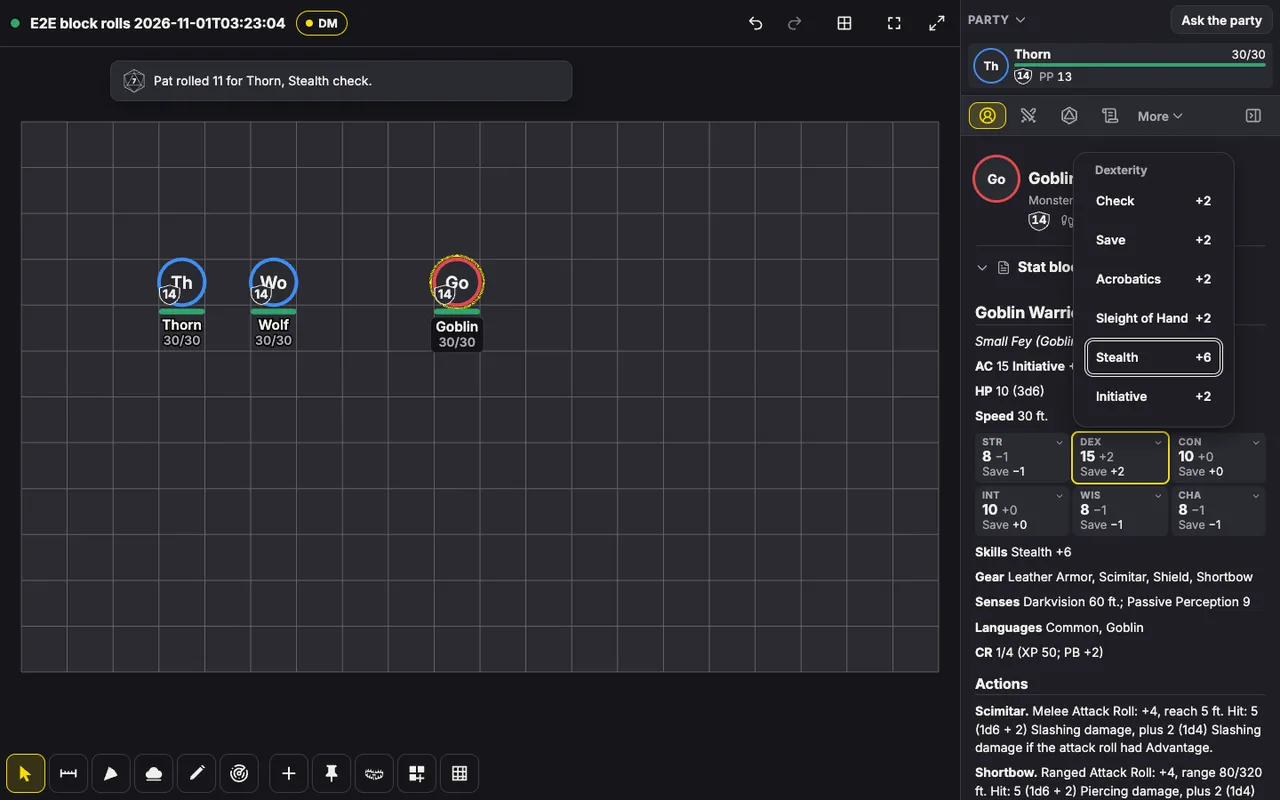
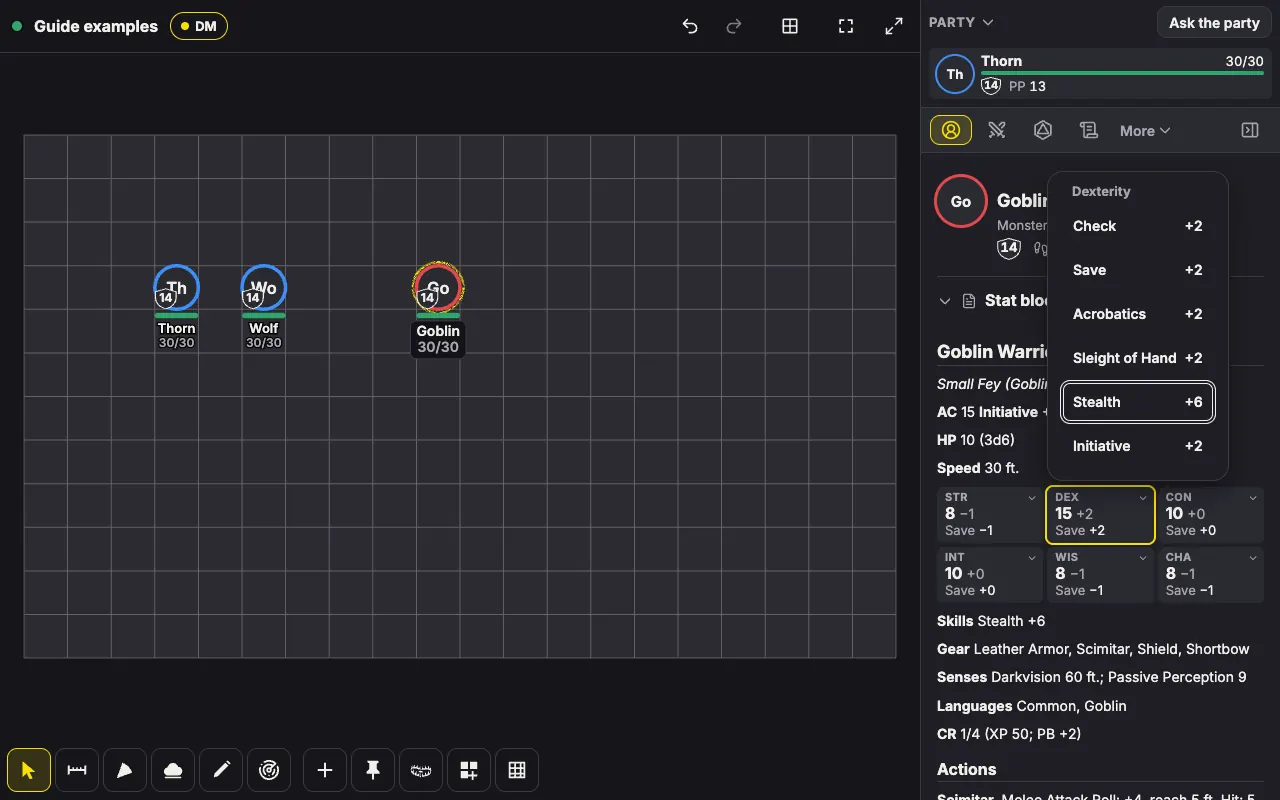
docs: stat block result line fixes, request and damage roll options, sharing an export, and a retaken stat block rolls picture

diff --git a/FEATURES.md b/FEATURES.md
@@ -100,7 +100,7 @@ All of this is the DM's.
 - Duplicate a scene from its menu, choosing what comes along: monsters, NPCs and objects, player characters, fog, and drawings and placed areas.
 - Folders: "Move to folder…" files a scene under a header that folds with a tap. Each scene shows a thumbnail of its map, redrawn when the DM leaves a scene they changed, or with "Update thumbnail". The menu's last row, "Delete", removes the scene with its tokens, drawings, build and fog. It asks for a second tap on the same row first, and a tap anywhere else cancels it. The last scene in a room cannot be deleted, and neither can the scene the players are on until they are moved to another: its Delete, in the menu and at the end of the scene's settings, says "Move the players to another scene first." An Undo setup or Redo setup that would take it away says the same. Players never see folders or thumbnails.
 - Map phases: up to 7 other images of the same map (8 in all), such as day and night or on fire, that keep tokens and fog in place. A chip, or the Phase menu on a wide screen, switches with one tap. A phase can bring its own light level, so Night can make the scene dark. Players get only the phase showing, never the others or their names.
-- "Export as image" saves a scene's map as a PNG: the map image and the build, without tokens, drawings or fog. Pick 50, 70 or 100 pixels per square, the grid on or off, and the player view or the DM view. The file name carries the grid size, such as `crypt-30x20-70px.png` (with `-dm` added for the DM view), so other VTTs set the scale on import. A hex scene exports pixels per hex with its hex lines ("Hex lines") and is named like `crypt-hex-70px.png`, since a WxH name would read as squares. A very large scene exports at fewer pixels per square, to stay within what an iPhone can draw, and says so. On an iPhone it saves through the share sheet.
+- "Export as image" saves a scene's map as a PNG: the map image and the build, without tokens, drawings or fog. Pick 50, 70 or 100 pixels per square, the grid on or off, and the player view or the DM view. The file name carries the grid size, such as `crypt-30x20-70px.png` (with `-dm` added for the DM view), so other VTTs set the scale on import. A hex scene exports pixels per hex with its hex lines ("Hex lines") and is named like `crypt-hex-70px.png`, since a WxH name would read as squares. A very large scene exports at fewer pixels per square, to stay within what an iPhone can draw, and says so. On a phone or tablet that can share files, the made image offers **Save or share**, which opens the share sheet, beside **Download**.
 - Universal VTT import (always squares, and a room whose default is hexes says so in the summary): a `.dd2vtt`, `.uvtt` or `.df2vtt` file from Dungeondraft, Dungeon Alchemist, Arkenforge or DungeonFog brings the map image, grid, walls, doors, windows and lights at once, and a door Arkenforge draws as an outline comes in as one door. It shows what it found before it makes the scene, asks what players see there, and suggests the scene's light level. A map that brings lights of its own starts dark with party vision on (Explore), so its lights light it for the party, and the summary opens by saying so with the count and Keep it lit beside it (Bright, and what players see goes back to the room's choice). A conversion retried with different options updates that line and its proposed light, keeping any light or Players see choice the DM already made. A map whose ambient light is 70% or brighter keeps its daylight, and one whose image is already lit with no lights stays Bright. One Undo setup in Setup history takes it all back. A phone takes files up to 40 MB, so large maps import on a computer.
 
 ### Isometric view
@@ -412,7 +412,7 @@ Every roll happens on the server, with a secure random source, so everyone sees 
 - Skill check buttons keep each name and bonus on one line, including Animal Handling. Their equal columns widen or fall to one column as the panel narrows or the interface size grows.
 - **Recharge and X/Day in the Dice panel**: a recharge action's row has **Used**, the same mark as the creature's Uses, and **Recharge**, which rolls 1d6 on the server and settles the turn's recharge card. Its Damage, Group save, a group save's Apply and a player's Ask for saves mark it used, and only while it shows ready, so they never draw a refusal. An X/Day action's row reads "2/Day, 1 left" with **Use**, the only thing that spends a use, so a reroll never does. A Legendary Action rolled there spends none. A Use that fails says why on its row, and a tap on Use with none left says "No uses left" there and spends nothing. Damage rolls keep each amount with its type through the HP entry's Use chip and the group save. Only types that deal damage after defenses count for Regeneration. Editing a chip's total clears its typed breakdown. Recharge has no one-roll options, since its one roll has nothing to choose.
 - **Critical Hits**: an attack's Critical, which a natural 20 (or a wider critical range) presses on its own, rolls every damage die of the hit, riders such as Sneak Attack included, by the room setting "Critical Hit damage" (Room settings, Combat): Roll the dice twice (2d6+3 crits as 4d6+3, the 2024 rule and the default), Max plus a roll (12 + 2d6 + 3), Double the dice rolled ((2d6 × 2) + 3) or Double the total ((2d6 + 3) × 2). One rule for monsters and characters alike, applied by the server. The roll shows how it was reached: in the log and Recent rolls ("12 max + 2d6+3 (4, 6) = 25"), and at the top of the Dice panel and in its toast ("25 (12 max + 13)"). Saves never crit.
-- **Several creatures** (DM): a card with up to three of their pictures, "3 selected" and their names, holding a DC, Initiative for the ones in the fight and Set up a group save. Under it, Saves and checks, Skills and Shared attacks fold as a creature's groups do, each kept on this device. A save's button reads "DEX" under the label "Saves for 3", one line at every size, and is still named "DEX save for 3". One tap rolls a save or check for all. A shared attack rolls with each creature's own bonus against an AC, then "Roll damage for 2 hits" rolls the hits' damage. Folding Shared attacks, or selecting other creatures while two or more stay selected and still share the attack, keeps the hits and the damage button, and a folded group names the hits that wait ("Scimitar: 2 hits"). Fewer than two selected clears them, and so does a selection that no longer shares the attack, even one made with the Dice sheet closed. A group save left open shows as a notice above the card, "Fire Breath's save: set up.", with Open. A save, a check or a shared attack's one-roll options apply to the dice the server rolls in that tap, never to an asked player's later answer, and say so. Roll damage offers Secret and Normal. Initiative for the ones in the fight keeps its dice secret.
+- **Several creatures** (DM): a card with up to three of their pictures, "3 selected" and their names, holding a DC, Initiative for the ones in the fight and Set up a group save. Under it, Saves and checks, Skills and Shared attacks fold as a creature's groups do, each kept on this device. A save's button reads "DEX" under the label "Saves for 3", one line at every size, and is still named "DEX save for 3". One tap rolls a save or check for all. A shared attack rolls with each creature's own bonus against an AC, then "Roll damage for 2 hits" rolls the hits' damage. Folding Shared attacks, or selecting other creatures while two or more stay selected and still share the attack, keeps the hits and the damage button, and a folded group names the hits that wait ("Scimitar: 2 hits"). Fewer than two selected clears them, and so does a selection that no longer shares the attack, even one made with the Dice sheet closed. A group save left open shows as a notice above the card, "Fire Breath's save: set up.", with Open. A save, a check or a shared attack's one-roll options apply to the dice the server rolls in that tap, never to an asked player's later answer, and say so. Roll damage's one-roll options offer Roll secretly, as any roll with no d20 does. Initiative for the ones in the fight keeps its dice secret.
 - **The group save** (DM): monsters rolled at once, players' creatures asked with the DM's roll one tap away (with a bonus the DM types for one with no stat block), a creature with no stat block rolled on the server with a bonus the DM types ("Server d20+3") or typed, pass or fail against a DC, damage rolled once and kept by type, full or half, conditions on a fail with their end, resistances, immunities, Evasion, Magic and Legendary Resistance on each row, every row changeable, with typed damage or a final plain number as its damage override, one Apply and one undo, which opens the page again for a new DC or fresh rolls (see Undo and Redo under DM tools). A typed row override applies defenses without applying the save or Evasion again. Back to the worked-out amount restores the shared damage and save choices. Until the roll its creatures follow the selection, so a save action's Group save fills with the creatures selected after it. Monsters' rolls the DM shows to players carry the DC only with "Players see the DC" on, and a save-ends or Concentration roll in the open never shows its DC. Those switches fold into one "What players see" line that says what they are, as on the request sheet, and the damage field is labelled Damage. It stays on the DM's device through a reload, and an Apply whose answer was lost is never sent again unless the DM says so. While the room is offline or the DM is on another scene, its rows stay as they are, with their rolls and Ask again waiting and saying why, and a total being typed as it drops is kept for Apply. A player's ask for saves comes as a card above the live cards, "Thorn asks for saves: Fireball, level 4", with the player's roll ("Thorn rolled 31 Fire") and the area's count, hidden creatures included, or the targets, with Open and Dismiss. It counts among the newest two on a phone and leads the alerts summary over a sheet. Open fills the group save from the caster's stat block as the DM sees it, at the asked level, whose Slot level stepper changes it, with the player's roll as the page's damage, and an ask on another scene reads "Go to Crypt and open". Apply resolves the ask in the same step, and where nothing would change it reads Close the ask. Discard leaves the ask waiting, and Dismiss sets it aside for good. An ask withdrawn or set aside while the page is open leaves a plain group save, and one resolved on another device stops Apply, so a spell never lands twice. Its Roll and its damage's Roll have the one-roll options. A pick never moves the page's Secret switch, except on a page the pick opened from Several creatures, whose switch starts as the dice it sent. A player's spell's damage stays public, with no options.
 
 ## Rolls
@@ -426,7 +426,7 @@ The DM asks players for a saving throw or an ability check, and each player roll
 - What players see (the DC, and pass or fail), "Against a spell" for a save, and a note such as "against the poison" fold into one line that says what they are. Both switches start as the DM's last request from that device had them, else on. With the DC hidden and pass or fail shown, a typed answer is final once it passes or fails, so changing the total cannot find the DC. The DM can reopen it.
 - The last three requests from that device are one tap each, with their DC, switches and note. Enter in the DC field or the note sends. If the server refuses the request, the sheet stays open with everything set and the reason. Closing the sheet while the request is sending does not stop it, and a refusal that comes after shows as a message.
 - The player's device shows a card, with a vibration on Android or the turn chime. It asks the question with its DC or "DC hidden", and shows reminders from the creature's conditions and statuses, such as Restrained's Disadvantage on Dexterity saves or an Exhaustion penalty. With two choices each names its bonus where the app knows it, and the higher one starts picked.
-- While the creature waits, Roll rolls on the server with its bonus ("Roll +3"), or with a bonus the player types when the app knows none ("Roll d20", then "Roll d20+5"), with "Add a stat block" for a character that has none, shown only to the DM and the character's own players. Conditions such as Restrained, Bless or Magic Resistance against a spell apply as in the Dice panel, the player can add Advantage, Disadvantage or extra dice such as +1d4, and a line under Roll says how it will roll, or that they cancel. A condition that fails the save, such as Stunned on a Dexterity save, offers "Fail (Stunned)" first, and a roll made anyway records Fail with its total. Rolling needs a connection. Its one-roll options roll with Advantage, Disadvantage or normally, with the choice, the bonus typed and the extra dice, and keep the request's visibility.
+- While the creature waits, Roll rolls on the server with its bonus ("Roll +3"), or with a bonus the player types when the app knows none ("Roll d20", then "Roll d20+5"), with "Add a stat block" for a character that has none, shown only to the DM and the character's own players. Conditions such as Restrained, Bless or Magic Resistance against a spell apply as in the Dice panel, the player can add Advantage, Disadvantage or extra dice such as +1d4, and a line under Roll says how it will roll, or that they cancel. A condition that fails the save, such as Stunned on a Dexterity save, offers "Fail (Stunned)" first, and a roll made anyway records Fail with its total. Rolling needs a connection. Its one-roll options roll with Advantage or Disadvantage, with the choice, the bonus typed and the extra dice, and keep the request's visibility. They never offer Roll normally, even with the card's own Advantage or Disadvantage pressed, since that chip is the way back.
 - A rolled result shows in the card, with its dice, a dropped die struck through, and a natural 20 or 1, until Done, then in the chip: "DEX save: rolled 17 (1d20+5: 12). Pass. Final." A rolled answer is final. The player can ask the DM, from the card or its chip, to reroll one die (Heroic Inspiration, the d20 or any other die such as Bless's d4, or Halfling Luck on a 1), to add Advantage (Lucky) or to add a Bardic Inspiration die, and can withdraw the ask. A typed total that is final, with the DC hidden, can be fixed the same way with "Fix my total", whose Allow lets the player type it again but not roll.
 - Or the player types the total and taps Send, and once a total is sent, Roll is gone. A save also offers "Fail without rolling". With "Players may type their roll totals" off in Room settings, under Players (on by default, rooms from before it included), every card a player answers offers Roll alone, with "Fail without rolling" on a save, no Total and no "Fix my total", and the server refuses a typed answer. Their Initiative is rolled too, never typed. A typed answer already in stands, and the DM's own rolls and totals are unaffected. A refusal, such as rolling too fast, shows under the card's rows in the server's words. A typed total folds the card into a chip, such as "DEX save: sent 17. Pass." (with two choices it names the one rolled: "STR or DEX save: sent DEX 15. Pass."), which opens again to change the answer while the request is open. A card can also fold away to answer later. On a phone the chips fold into one button while a sheet covers the map, and otherwise only the newest two show, with a "Rolls" button that counts the answers (such as "Rolls 1/3"), shows the rest and folds them again. A card that would cover an open sheet on a phone folds too, into a "Roll asked" button that closes the sheet and opens the card again, with any total typed into it kept. A card at a phone's foot folds the same way while a popover of the tool's options is open, such as Shape or the spell results, and comes back when the popover closes. On a phone a card at the screen's foot stands on the tool's options, such as the Multi-select bar, and the token's action bar keeps above it. Where the screen is too short for the card's question, Later and total, or for both it and the bar, the card folds, and a "Roll asked" row at the top of the map stands for it. Its tap, like a chip's, hides the bar, keeping the token or group selected, and opens the card over the tool's options, rising to the screen's top where it needs the room, with its question, Later, total and Send in reach at once, until it is answered or put off with Later.
 - The DM's live card counts passes and fails ("2 of 3 answered: 1 pass, 1 fail") and shows each creature waiting, or how it answered: "rolled 17 (1d20+5: 12)" with its dice, a natural 20 or 1 and a condition that failed it, or "typed 17", with the choice first when there were two, and an answer it replaced. A waiting creature whose bonus the DM's view knows has a Roll, such as "Roll +5, Disadvantage (Restrained)", and one with no stat block a Roll with a bonus the DM types beside it ("Roll d20+3"), which never replaces an answer that came first: "Thorn answered before your roll." Pass and Fail mark a roll with no DC, or overrule one, and the mark is kept apart from what the DC says. A player's ask shows on its row, "Asks to reroll (Heroic Inspiration)", with Allow, which rolls the change on the server, and Keep, one tap each. A card with an ask opens on a computer, names the ask on its folded line on a phone, and leads the alerts summary over a sheet. A request a save-ends card sent stays folded to its one line while that card is up, so its Allow and Keep show once, on the save-ends card. Closing a request keeps any ask, and "Close all answered" leaves a request with an ask open. "Reopen for one more answer", Close, and "Close all answered", which shows while two or more cards are up, finish it. On a phone the DM's cards start folded to one line, only the newest two show, with a "Rolls" button (such as "Rolls 1/3") for the rest, and all of them fold into one button while a sheet covers the map. A waiting creature's Roll has the same one-roll options, and still never replaces an answer that came first.
@@ -441,7 +441,7 @@ The DM asks players for a saving throw or an ability check, and each player roll
 - The DM and the character's players read and edit it. Only they get Add a stat block, Edit, Take a shape and End the shape, so a player lent a token of another character rolls for it but never changes its block. Its numbers stay theirs too: the lent token's player rolls its saves, checks, skills and Initiative as a d20 with a bonus they type, and its row's Roll in the tracker opens the Dice panel for that. Other players and the table display never see it.
 - Fill it from pasted text, read as a stat block, or from D&D Beyond with a public character's share link or its JSON. It reads numbers, proficiencies, weapons, spells and class resources, never their text, and lists what to check before anything is saved. Jack of All Trades comes in as its flag when the bard has reached the feature, whatever condition text D&D Beyond gives it, or when any other source gives it with no condition. Class modifiers of features not yet reached are ignored. When the classes are not read whole the flag stays as synced, and a re-sync that turns it on or off says so. Other half proficiencies, such as the Champion's Remarkable Athlete, are not read. Re-sync from D&D Beyond, beside Edit, brings in what changed there since the last sync and keeps what you changed here, such as a Spellcasting ability or a renamed weapon. It lists each kept change with Overwrite, and Overwrite all, and Undo takes a re-sync back (for the DM it is also a step in Setup history). It changes the maximum HP but never brings a character back or puts one down, and never changes the size. It is best effort, since D&D Beyond can change its format.
 - A character with a stat block shows it in its token's panel and on its page, right under the name and quick numbers, its six abilities three across with their saves, each proficient save's ability box outlined, its saves in the action bar, and "Stat block" in its tracker row's options. Its Initiative and Passive Perception come from the stat block. Folded, its row says what it holds: "Level 5, PB +3" (or "Level not set"), or the shape it is in, such as "Wild Shape: Brown Bear", and never a count of known forms. A character with none has the same fold, reading "None yet", and, opened, offering "Add a stat block" and "Take a shape". Once the character has known forms, Take a shape reads "4 shapes" ("1 shape") on the fold's row and inside it, named "4 shapes, take a shape" to a screen reader.
-- **Roll from a stat block**: where you may roll for its creature, tap one of a stat block's six ability boxes for its rolls: the check, the save, each of its skills, and Initiative under Dexterity, each with the bonus it rolls, a proficient one bordered as in the Dice panel. Tap one to roll it. Hold one, right-click it, or press ContextMenu or Shift+F10 on it for Roll with Advantage, Roll with Disadvantage or Roll secretly, and Escape or Back goes back to the list. A DM's roll for a monster is secret already, so its choices are Advantage and Disadvantage only. A small mark in a box's corner shows it opens. The result shows under the boxes, with "with Advantage", "with Disadvantage" or "secret" where a choice added one and the line has room. A roll answers a request that asks for it, writes Initiative into the tracker, and for the DM asks a player's creature while its Ask switch is on. It uses none of the Dice panel's Next roll choices and throws no dice. In Wild Shape the boxes show the creature's block and roll the numbers under "Rolls now". The Skills line, the Initiative line and weapons stay text, and so does a block with no creature behind it, as in the Monsters panel.
+- **Roll from a stat block**: where you may roll for its creature, tap one of a stat block's six ability boxes for its rolls: the check, the save, each of its skills, and Initiative under Dexterity, each with the bonus it rolls, a proficient one bordered as in the Dice panel. Tap one to roll it. Hold one, right-click it, or press ContextMenu or Shift+F10 on it for Roll with Advantage, Roll with Disadvantage or Roll secretly, and Escape or Back goes back to the list. A DM's roll for a monster is secret already, so its choices are Advantage and Disadvantage only. A small mark in a box's corner shows it opens. The result shows under the boxes, at their width, with "with Advantage", "with Disadvantage" or "secret" where a choice added one and the line has room. Where the line is short, those words go first, then the dice, and then the roll's name ends in "…", so the total, the name and a verdict such as "Natural 20, Pass" stay. An answer to a request names its roll on the line and to a screen reader, as the Dice panel's newest roll does. A roll answers a request that asks for it, writes Initiative into the tracker, and for the DM asks a player's creature while its Ask switch is on. It uses none of the Dice panel's Next roll choices and throws no dice. In Wild Shape the boxes show the creature's block and roll the numbers under "Rolls now". The Skills line, the Initiative line and weapons stay text, and so does a block with no creature behind it, as in the Monsters panel.
 - Take a shape on a character's own token: an SRD creature as Wild Shape, where the druid keeps Intelligence, Wisdom, Charisma and proficiencies and each save and skill takes the higher of the two, or as Polymorph, with all of the creature's numbers. A character with no stat block takes all of the creature's numbers in Wild Shape too, and the shape's words point at adding one. The token takes the creature's AC and Speeds, and HP stays the character's. The picker's Druid level (Any, then 2 to 20) keeps only the forms a Druid of that level may take: up to CR 1/4 at levels 2 and 3, CR 1/2 at 4 to 7 and CR 1 from 8, and no Fly Speed before 8. Each device remembers the level or Any last picked for each character. Until one is picked there, it starts at the character's level once the character has known forms and is level 2 or more, and at Any otherwise. Choosing a level turns Beasts only on, a line under the controls states the limit, and the list runs from the highest CR down. One checkbox, on by default, gives the 2024 Temporary HP, the Druid level for Wild Shape and the creature's HP for Polymorph, only where they are more than the character holds. That Druid level is the one picked in Take a shape, or the character's level while none is picked or Any is. End the shape to go back: the character's AC and Speeds return, and what is left of Polymorph's Temporary HP goes, unless Temporary HP from another source replaced them.
 - A Druid's known forms: up to 8 Beast forms the character knows for Wild Shape. "Choose known forms" in Take a shape (then "Change") opens a step with the same search, Beasts only and Druid level, where one tap adds or takes out a form, and the known ones stay listed first whatever the filters. They come first in Take a shape, where one tap takes the form as Wild Shape with its Temporary HP, or changes to it in Wild Shape. The Stat block group draws no list of them: the Take a shape button on its row reads the count ("4 shapes", "1 shape") and stays in Wild Shape, so a druid in Wild Shape changes form, or opens Change ("Choose known forms" with none), without ending the shape. In Wild Shape the form the druid is in shows pressed and unavailable, and while shaped the picker offers only Wild Shape. Polymorph or another shape hides the button until End the shape. With a Druid level picked, the count reads against the Beast Shapes table (4 forms at level 2, 6 at 4, 8 at 8), and a form over the level's CR or with a Fly Speed before level 8 is marked but still taken. The rule is shown, never enforced, and replacing a form after a Long Rest is left to the table. The DM and the character's players see the list, and no one else. Choosing known forms is a sheet change, so the DM takes it back in Setup history.
 - The DM sees every character's page. A player sees and edits their own character's page. Other players see only the name, conditions and whatever HP the DM allows.
@@ -505,7 +505,7 @@ The DM asks players for a saving throw or an ability check, and each player roll
 - While the Log is closed, its button counts new messages, and a whisper to you shows a short notice.
 - The Log shows its newest lines, and Show older brings back the rest, a room brought in from a backup included. The room keeps every line of its log for as long as the room exists. A room that lost its oldest lines to the old limit of 10,000 keeps what was left. Each person's whispers, the lines only some players read, such as a roll's answer, and the DM's own notes keep a count of their own, so a whisper between others, or a line someone else's creature or only the DM gets, never pushes a line out of anyone else's Log. A line written while the table is paused that no player could see stays the DM's when play resumes. Older HP lines offer Undo while the room still keeps what is needed to take them back. An older page left open loses Undo as those records expire.
 - Paging back, the Log holds at most 500 lines at once, so a phone stays quick. Past that its newest lines give way, and **Show newer** and **Back to latest** under the list bring them back. A message sent from there goes back to the latest too. A page the server is busy with for a moment is asked for again once before the Log says "Could not load older messages." For players and View as a player, pausing or resuming clears loaded history and drops pages still on their way. The DM's own history stays.
-- **Export** in the Log saves it as a Markdown file, one evening or all of it. A gap of more than 4 hours starts a new evening. The newest 25 evenings show first, and **Older sessions** lists 25 more. Everyone can export, and the file holds only what that person's Log shows. On an iPhone it saves through the share sheet. A file over 8 MiB says "This file is large. Use Download to save it.", and **Download** saves it through the browser instead, which counts as another export. Listing the evenings, each Older sessions and each export or download count toward 10 an hour per person.
+- **Export** in the Log saves it as a Markdown file, one evening or all of it. A gap of more than 4 hours starts a new evening. The newest 25 evenings show first, and **Older sessions** lists 25 more. Everyone can export, and the file holds only what that person's Log shows. On a phone or tablet that can share files, the made file offers **Save or share**, which opens the share sheet, beside **Download**: the share sheet needs that tap of its own. A file over 8 MiB says "This file is large. Use Download to save it.", and **Download** saves it through the browser instead, which counts as another export. Listing the evenings, each Older sessions and each export or download count toward 10 an hour per person.
 - **Handouts** (DM panel): show an image to everyone or to chosen players as a popup. It pops up for the players in the room when the DM shows it, or shows it again. A player who joins, or opens the room in a new tab, finds the handouts already showing in the Library instead. A handout can also be a PDF: Upload a file in Show a handout takes an image or a PDF, and "From starter packs" there offers 200 openly licensed pictures to show: the Illustrated Bestiary's monsters, the portrait packs, and Historical art's people, creatures, places, items and documents, each copied into the room with its credit. The DM chooses which pages, up to 100, and the DM's browser turns them into pages, showing its progress in the DM panel, and names the handout after the PDF's title or file name. Players scroll it like a PDF, page with the Previous page and Next page buttons or Page Up, Page Down, Space, Home and End, and zoom over the whole document, down to a whole page. Download saves a handout of several pages as a PDF. A PDF with a password or an XFA form is refused, and nothing inside a PDF runs. A tap on a handout's picture under Showing now opens it for the DM as the players see it. Players can zoom in with a pinch, a double tap, the wheel, the zoom buttons or the + and − keys. On a handout of several pages the wheel scrolls through them, and Ctrl with the wheel, or a trackpad's pinch, zooms. Zooming uses the whole popup. On a tablet or a computer the popup starts as a card, and zooming in opens it to the whole window, at once with a button, a key or the wheel, or when a pinch ends. A small pinch then settles with the whole picture fitted to the window. Zoom out or Reset zoom, the turning arrow left of the zoom buttons, brings the card back, and Expand opens it to the window without zooming. On a phone it fills the screen from the start. Anyone shown a handout can download it with the popup's Download button, saved under the handout's title. On a phone that can share files, Download opens the share sheet instead, to save the image to Photos or Files or send it on. A closed handout stays closed after a reload, and a reload of the same tab brings back the one that was open. Any handout showing opens again from the Library. Its picture there opens it too, at the page it was left on, and closing it comes back to the Library.
 
 ## Drawing, pings and the laser

diff --git a/docs/dm-guide.md b/docs/dm-guide.md
@@ -932,7 +932,7 @@ Every roll in a creature's options has the one-roll menu, from a save to a weapo
 
 **Rolling from a stat block.** For a quick save or check you don't need the Dice panel. In a creature's stat block, tap one of the six ability boxes, the ones with a small mark in the corner. A short list opens with that ability's check, its save and its skills, and under Dexterity, Initiative. Tap one to roll it, and the result shows under the boxes. For Advantage, Disadvantage or a secret roll, hold the roll for half a second or right-click it, or press `Shift+F10` on it, then pick. A monster's rolls are already hidden from players, so for a monster you'll only see Advantage and Disadvantage there. `Escape`, or Back on Android, takes you back to the list. For a creature a player plays, a save or check asks that player while its **Ask Thorn to roll** switch in the Dice panel is on. Boxes in the Monsters panel stay plain, since no creature stands behind them.
 
-![The DM's screen with a goblin's stat block open in the side panel and the Dexterity box's list open over it: Check, Save, Acrobatics, Sleight of Hand, Stealth and Initiative, each with its bonus, Stealth outlined as one the goblin is proficient in.](dm-guide/stat-block-rolls.webp)
+![The DM's screen with a goblin's stat block open in the side panel and the Dexterity box's list open over it: Check, Save, Acrobatics, Sleight of Hand, Stealth and Initiative, each with its bonus, Stealth +6 with the double border of a skill the goblin has Expertise in.](dm-guide/stat-block-rolls.webp)
 
 ### Several creatures
 
@@ -1068,7 +1068,7 @@ When you start it from an area, the page fills itself in from the spell and its 
 2. Check the damage (`8d6 Fire`). **On a pass** is **Half** or **None**. **On a fail** can add up to three conditions, with how long they last and an optional save at the end of each turn.
 3. Check the rows. Each creature in the area has one. Monsters roll on the server. Players' creatures are asked, so the player rolls on their own device, or you can press **Roll +3** for them. To change how a single row rolls, pick **Ask**, **Server** or **Type** (you type the total), or **Fails**, which is offered when a condition such as Stunned fails the roll outright. To decide a row yourself, pick **Fail**, **Pass** or **Skip**.
 4. Press the roll button ("Roll 4 saves", or "Roll 2 saves and ask 2 players"). Each row shows its roll and result ("Fail vs DC 15"), along with its defenses: resistances and immunities from its stat block, **Evasion**, and **Use Legendary Resistance (2 left)** for a legendary monster that failed. Hold the button, right-click it or press `Shift+F10` on it for one roll with Advantage, Disadvantage, in secret or normally. The pick rolls the monsters this time only and never moves **Hide the monsters' rolls from players**, except on a page the pick itself just opened from **Saves for 4**, whose switch starts as the dice it sent. The players you ask still roll their own way.
-5. In **Damage**, press **Roll** to roll the dice, type amounts such as `28 fire + 14 radiant`, or take a player's roll from **Rolled by someone else**. Once the saves are rolled, the damage folds into one line, and **Edit** opens it again. Each row shows the damage it takes after its save and defenses. The damage **Roll** has the one-roll menu with **Roll secretly** and **Roll normally**, except for a player's spell, whose damage stays in the open.
+5. In **Damage**, press **Roll** to roll the dice, type amounts such as `28 fire + 14 radiant`, or take a player's roll from **Rolled by someone else**. Once the saves are rolled, the damage folds into one line, and **Edit** opens it again. Each row shows the damage it takes after its save and defenses. The damage **Roll** has the one-roll menu with **Roll secretly**, except for a player's spell, whose damage stays in the open.
 6. Press **Apply** ("Apply: 4 take damage"). Temporary HP and Concentration saves are handled for you, and the app confirms: "Applied to 4. Undo takes it all back." Press **Done** to close the page.
 
 Tap a row's damage amount to change what that creature takes. A plain number is the final amount, with `0` preventing its damage. Typed damage such as `11 cold + 3 radiant` replaces that amount and applies the creature's defenses, without applying its save or Evasion again. **Back to 7**, where 7 is the worked-out amount, restores the shared damage and save choices. Clearing the field does the same. If the entry cannot be read, the field explains why and **Apply** waits for you to correct it.
@@ -1567,7 +1567,7 @@ The **Log** keeps everything said and done at the table: chat, whispers, rolls, 
 
 **Reading back.** Press **Show older** at the top of the Log to bring in the lines before the ones you see. The line you were reading stays where it was, and the older ones go in above it. Keep pressing to go further back, until the Log says "This is the start of the log." To keep a phone quick, the Log holds at most 500 lines at once. Once you go back further than that, the newest lines give way and two buttons appear under the list: **Show newer** reads forward again from where you are, and **Back to latest** returns you to the live Log with the message field ready. Sending a message also takes you back to the latest. Your players read back the same way, and see only what their own Log may show.
 
-**Saving a session.** **Export** at the top of the Log lists your evenings at the table, the newest first, with the time each began and ended and how many lines it holds. A gap of more than 4 hours starts a new evening. The newest 25 show first, and **Older sessions**, under them, adds 25 more. **Everything** saves the whole Log. Each evening's **Export** saves a Markdown file you can open in any text editor or notes app. On a phone it opens the share sheet, so you can save it to Files or send it on. A very long file, over 8 MiB, says "This file is large. Use Download to save it." **Download** then saves it through your browser, which asks the server for it again. Opening the list, each Older sessions and each export or download count toward 10 an hour for each person.
+**Saving a session.** **Export** at the top of the Log lists your evenings at the table, the newest first, with the time each began and ended and how many lines it holds. A gap of more than 4 hours starts a new evening. The newest 25 show first, and **Older sessions**, under them, adds 25 more. **Everything** saves the whole Log. Each evening's **Export** saves a Markdown file you can open in any text editor or notes app. On a phone or tablet that can share files, once the file is ready, press **Save or share** to open the share sheet, so you can save it to Files or send it on, or **Download** to save it through your browser. A very long file, over 8 MiB, says "This file is large. Use Download to save it." **Download** then saves it through your browser, which asks the server for it again. Opening the list, each Older sessions and each export or download count toward 10 an hour for each person.
 
 ![The Log's Export list over the map: a Markdown file of the log, the evening with the time it began and ended and its line count, and Everything, each with its own Export button.](dm-guide/log-export.webp)
 

diff --git a/docs/design-v1-stat-block-rolls.md b/docs/design-v1-stat-block-rolls.md
@@ -433,7 +433,7 @@ Where the build went its own way from the design above, or from the code it was 
 **Lane B: the grid, mounts and result**
 
 - `useBlockRoller(from)` lives in `AbilityGrid.tsx` and wraps `blockRoller` with the view, the viewer and the scene, keeping one object while the creature is the same. The mounts pass `from` to it, rather than each computing `blockRoller`. `PcStatBlock` takes `from` as a required prop.
-- The result line sits in one wrapper with the grid, so the PC sheet's grid gap does not add to the line's own margin. The mode words are a last flex item outside the label and dice box, `aria-hidden`, so where they do not fit they wrap out of the one-row line first and whole. The line's description sits on its body (`aria-description`) and carries the returned roll's mode and Secret.
+- The result line sits in one wrapper with the grid, so the PC sheet's grid gap does not add to the line's own margin. The mode words are a last flex item outside the label and dice box, `aria-hidden`, so where they do not fit they wrap out of the one-row line first and whole. FL-20 measures them instead (below). The line's description sits on its body (`aria-description`) and carries the returned roll's mode and Secret.
 - Markers: `data-block-result`, `data-ability-mark`, `data-result-mode`, `data-ability-abbr`, `data-ability-score` and `data-ability-save`.
 
 **Lane C: tests**
@@ -442,3 +442,9 @@ Where the build went its own way from the design above, or from the code it was 
 - sbr-16 puts the Dice panel under the Token panel with Two panels, so both lines are mounted at once on a computer.
 - A refused block roll is covered by unit tests (`BlockResult.test.ts`, `Roller.test.ts`), not by an e2e step: no gesture in the browser makes the server refuse one.
 - sbr-2 checks that Adv stays pressed. It cannot read the option store's version.
+
+**FL-20: fixes from live play 27**
+
+- **The line never widens the grid** (LP27-A-BLOCK-1). The result line has `contain: inline-size`, so its one nowrap row gives no width to the boxes around it, and the grid's wrapper has `minWidth: 0` as a grid item of the PC sheet. A shape's block nests the grid deeper, in StatBlockView's own grid, which the wrapper's `minWidth` alone did not reach. `containmentLines` (`e2e/helpers/alignment.ts`) checks that a root stays inside its container and lays out nothing past its own sides. The section 9 sweep runs it on every block root, closed and after a roll, and its PC sheet and Wild Shape screens roll Sleight of Hand, the longest label.
+- **The mode words go by measurement** (LP27-A-BLOCK-2). The middle box keeps `flex: 1 1 0` with mode words too, capped at its own width so the words sit beside it. `ResultRest` shows the words, checks whether any other part is cut (wrapped out of the row or clipped inside its box), and hides them if so, on the node in one layout. The rest then drops as the Dice panel's line does: the dice, then the label's "…". Markers `data-result-label` and `data-result-verdict` join `data-result-mode`.
+- **An answer names its roll** (LP27-A-BLOCK-3). `BlockSent` carries the row's `label`, and the line falls back to it where the returned roll has none, as an answer's has not. `useCommittedRoll(receipt, label)` passes the same fallback to `spokenResult`, so the Dice panel's newest line now says an answer's name too.

diff --git a/docs/design-v1-pc-stats.md b/docs/design-v1-pc-stats.md
@@ -444,7 +444,7 @@ The reader starts from these paths of `data`, each confirmed against a live publ
 
 Changed by docs/design-v1-ddb-resources.md (1.1): the class resources read `actions.{class,race,feat}[]` again for `limitedUse` (`maxUses`, `statModifierUsesId`, `operator`, `useProficiencyBonus`, `proficiencyBonusOperator`, `resetType`, `numberUsed`, `minNumberConsumed`, `maxNumberConsumed`), `componentTypeId` and `componentId`, and `classes[].classFeatures[].definition.id`, `requiredLevel` and `name`. Their table and fixtures are in `shared/ddb/resources.ts` and its test, checked against public sample characters rather than a live one.
 
-Changed by FL-19: Jack of All Trades is a `half-proficiency` modifier with `subType` "ability-checks", read from the `modifiers.class[]` entry of a reached class feature named "Jack of All Trades" with any `restriction`, or from any source with an empty one. A class modifier whose `componentId` and `componentTypeId` (both 12168134) match a `classes[].classFeatures[].definition` `id` and `entityTypeId` with a `requiredLevel` above the class's `level` is ignored for every output. The flag is left out, so a re-sync keeps the stored one, when the classes are not read whole.
+Changed by FL-19: Jack of All Trades is a `half-proficiency` modifier with `subType` "ability-checks", read from the `modifiers.class[]` entry of a reached class feature named "Jack of All Trades" with any `restriction`, or from any source with an empty one. A class modifier whose `componentId` matches a `classes[].classFeatures[].definition` `id`, and whose `componentTypeId` matches that definition's `entityTypeId` (both 12168134 for a class feature), with a `requiredLevel` above the class's `level`, is ignored for every output. The flag is left out, so a re-sync keeps the stored one, when the classes are not read whole.
 
 ## Appendix C. Worked examples
 
